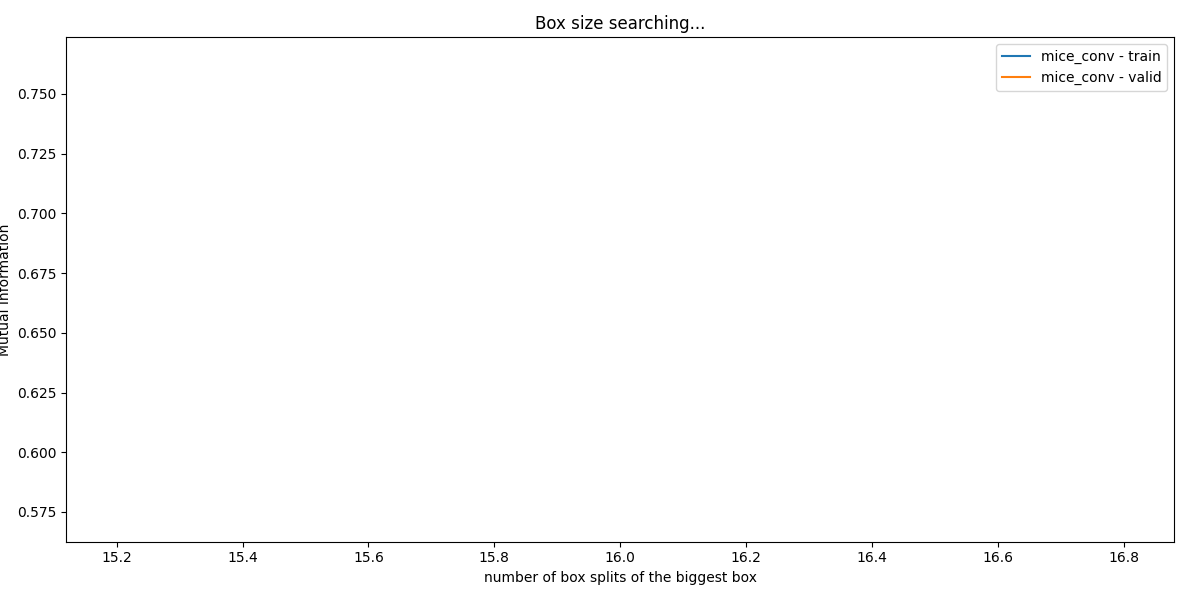
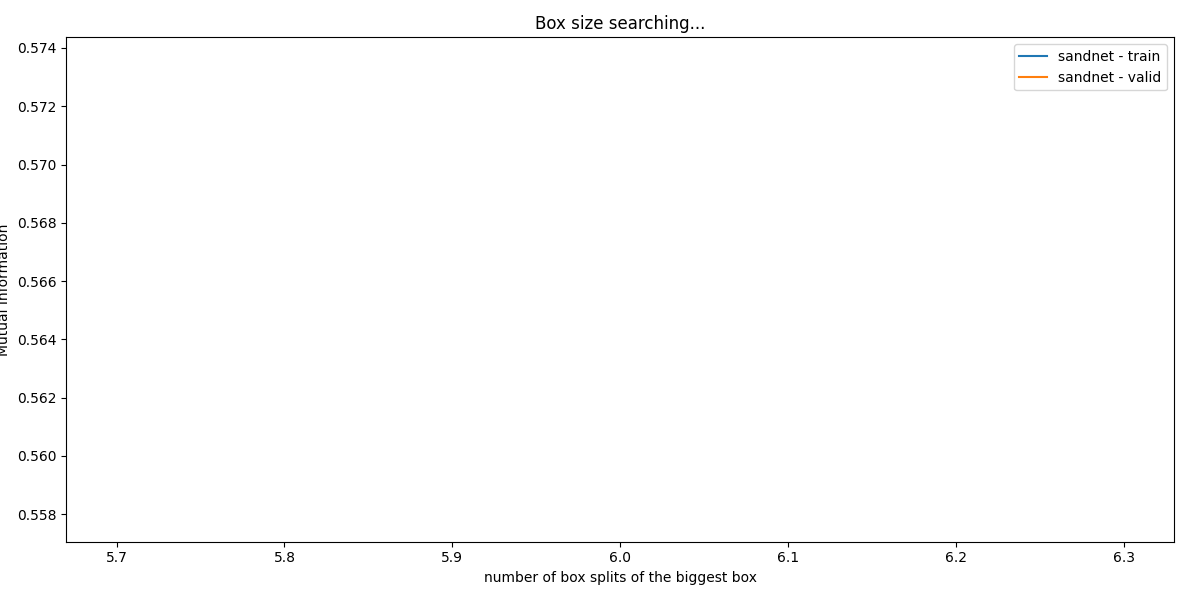
updated

diff --git a/src/mice/utils/my_utils.py b/src/mice/utils/my_utils.py
@@ -814,3 +814,53 @@ def ising_temp_fig_running(df, figsize, genom):
     plt.savefig(fname=os.path.join(saved_path, 'simulation_running'))
 
     return None
+
+@gin.configurable
+def box_temp_fig_running(df, figsize, genom):
+    '''
+    Plot the mutual information of ising as a function of the temperature
+
+    figsize: the size of the figure
+    df: dataframe with our data
+
+    return:
+    None
+    '''
+    plt.figure(num=0, figsize=figsize)
+    plt.clf()
+    plt.xlabel('Box sizes')
+    plt.ylabel('Mutual Information')
+    plt.title('Mutual Information as a function of the Box size')
+    plt.tight_layout()
+    sns.relplot(x='number of splits of space', y='MI', data=df)
+    plt.legend()
+    saved_path = os.path.join('./', "figures", "losses", "box_size_search", genom)
+    mice.folder_checker(saved_path)
+    plt.savefig(fname=os.path.join(saved_path, 'simulation_running'))
+
+    return None
+
+@gin.configurable
+def box_temp_fig(df, figsize, genom):
+    '''
+    Plot the mutual information of ising as a function of the temperature
+
+    figsize: the size of the figure
+    df: dataframe with our data
+
+    return:
+    None
+    '''
+    plt.figure(num=0, figsize=figsize)
+    plt.clf()
+    plt.xlabel('Box sizes')
+    plt.ylabel('Mutual Information')
+    plt.title('Mutual Information as a function of the Box size')
+    plt.tight_layout()
+    sns.relplot(x='number of splits of space', y='MI', data=df)
+    plt.legend()
+    saved_path = os.path.join('./', "figures", "losses", "box_size_search", genom)
+    mice.folder_checker(saved_path)
+    plt.savefig(fname=os.path.join(saved_path, 'all_mi_together'))
+
+    return None

diff --git a/src/mice/main/box_menu.py b/src/mice/main/box_menu.py
@@ -95,17 +95,26 @@ def box_runner(num_boxes, box_frac, idx, max_epochs, batch_size, freq_print, gen
             print(f'\nMI for train {train_losses[-1]}, val {valid_losses[-1]} at step {epoch}')
         
     torch.save(model.state_dict(), PATH)
-    mice.logger(f'MI train for num boxes, num_boxes = {num_boxes} is: {train_losses[-1]:.2f}', flag_message=2)
+    mice.logger(f'MI train for num boxes, num_boxes = {num_boxes} is: {train_losses[-1]:.2f}', flag_message=0)
     mice.box_fig(num=0, genom=genom, num_boxes=num_boxes, train_losses=train_losses, valid_losses=valid_losses)
     mi_num_box_dependant.append(train_losses[-1])
     mi_num_box_dependant_valid.append(valid_losses[-1])
     mi_num_box_dependant = np.array(mi_num_box_dependant)
     return mi_num_box_dependant[-1]
 
-@gin.configurable
-def box_caller(box_sizes):
-     for idx, num_boxes in enumerate(box_sizes):
-         box_runner(num_boxes=num_boxes, idx=idx)
+def box_caller():
+    # box_sizes = [4, 6, 10, 14, 18]
+    box_sizes = [4, 6, 18, 25]
+    mi = np.zeros(len(box_sizes))
+    for idx, num_boxes in enumerate(box_sizes):
+        print(f'Running on number of boxes = {num_boxes}')
+        print('='*50)
+        current_mi = mice.box_runner(num_boxes=num_boxes, idx=idx)
+        mi[idx] = current_mi
+        df = pd.DataFrame({'number of splits of space': box_sizes, 'MI': mi})
+        mice.box_temp_fig_running(df=df)
+    df = pd.DataFrame({'number of splits of space': box_sizes, 'MI': mi})
+    mice.box_temp_fig(df=df)
 
 if __name__ == '__main__':
     mice.box_caller()

diff --git a/src/mice/__init__.py b/src/mice/__init__.py
@@ -40,7 +40,9 @@ from mice.utils.my_utils import (
     ising_temp_fig,
     ising_temp_fig_running,
     lin_ave_running,
-    loss_lin_ave
+    loss_lin_ave,
+    box_temp_fig_running,
+    box_temp_fig
 )
 
 from mice.main.box_menu import (
